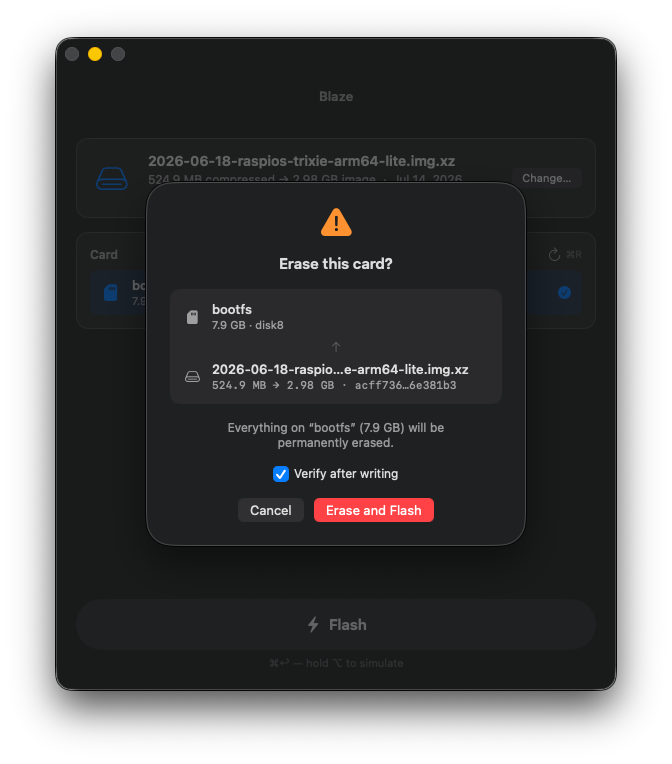
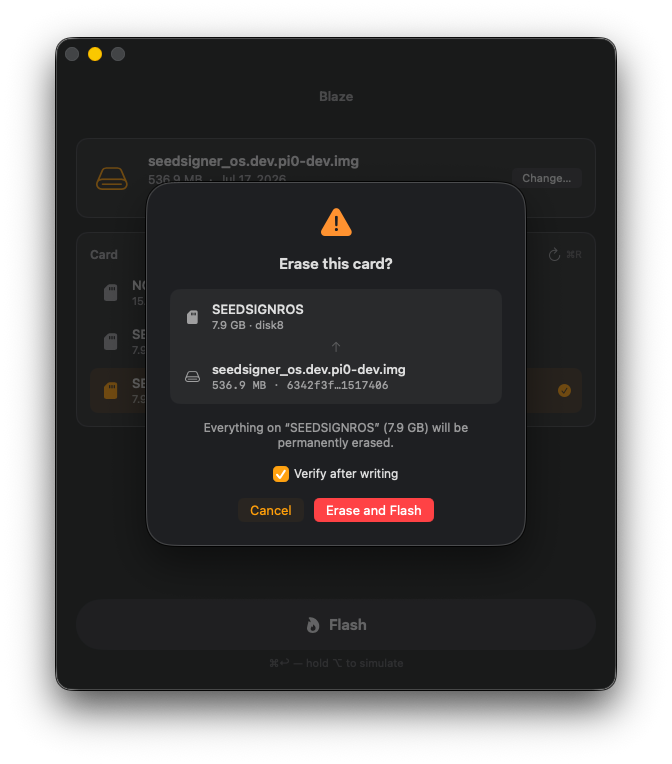
update screenshots, microsd internal macbook support, and a few other minor tweaks

diff --git a/blaze/Disk/DiskEnumerator.swift b/blaze/Disk/DiskEnumerator.swift
@@ -7,7 +7,11 @@ nonisolated enum DiskEnumerator {
     private static let log = Logger(subsystem: "dev.derivation48.blaze", category: "disks")
 
     static func enumerate() -> [Disk] {
-        guard let list = diskutilPlist(["list", "-plist", "external", "physical"]) else { return [] }
+        // All physical disks, not just external: the built-in SD slot on
+        // MacBook Air/Pro is on the internal bus, so its cards report
+        // Internal=true and never appear under "external". The Removable
+        // filter below excludes the boot NVMe and fixed external drives.
+        guard let list = diskutilPlist(["list", "-plist", "physical"]) else { return [] }
         let wholeDisks = list["WholeDisks"] as? [String] ?? []
 
         // Volume names come from the list plist, keyed by whole disk.
@@ -42,11 +46,12 @@ nonisolated enum DiskEnumerator {
                 isInternal: info["Internal"] as? Bool ?? false,
                 volumeNames: volumesByDisk[bsdName] ?? [],
                 mountPoints: mountsByDisk[bsdName] ?? [])
-            // Fixed external drives (NVMe/SSD/HDD enclosures) report
-            // Removable=false; SD/microSD readers and sticks report true.
+            // Fixed drives — the internal boot NVMe and external NVMe/SSD/HDD
+            // enclosures — report Removable=false. SD/microSD cards report
+            // true whether they sit in a USB reader or the built-in slot.
             // Only removable media belongs in a card picker.
             guard disk.removable else {
-                log.info("hiding non-removable external disk \(bsdName, privacy: .public) (\(disk.mediaName, privacy: .public))")
+                log.info("hiding non-removable disk \(bsdName, privacy: .public) (\(disk.mediaName, privacy: .public))")
                 continue
             }
             guard let score = SDHeuristic.score(disk) else {

diff --git a/blaze/Disk/MountGuard.swift b/blaze/Disk/MountGuard.swift
@@ -2,10 +2,10 @@ import Foundation
 import DiskArbitration
 
 /// While Blaze runs (and the preference is on), dissents every mount of
-/// removable physical media system-wide — cards and USB sticks stay
-/// unmounted, so macOS never touches them. Internal disks, external
-/// non-removable drives, and disk images are unaffected, and everything
-/// returns to normal the moment Blaze quits.
+/// removable physical media system-wide — cards (USB reader or built-in SD
+/// slot) and USB sticks stay unmounted, so macOS never touches them. The
+/// boot disk, external non-removable drives, and disk images are unaffected,
+/// and everything returns to normal the moment Blaze quits.
 ///
 /// @unchecked Sendable: `suspendCount` is lock-guarded and read from the DA
 /// callback queue; `session` is only touched from start/stop on the main
@@ -23,9 +23,12 @@ nonisolated final class MountGuard: @unchecked Sendable {
         let suspended = guardian.suspendCount > 0
         guardian.suspendLock.unlock()
         if suspended { return nil }
+        // Block any removable medium — USB reader/stick or a card in the
+        // built-in SD slot (which is internal-bus but removable). The boot
+        // disk and external SSD/HDD enclosures are non-removable so they
+        // never match; disk images are excluded explicitly.
         guard let desc = DADiskCopyDescription(disk) as? [String: Any],
               desc[kDADiskDescriptionMediaRemovableKey as String] as? Bool == true,
-              desc[kDADiskDescriptionDeviceInternalKey as String] as? Bool != true,
               (desc[kDADiskDescriptionDeviceProtocolKey as String] as? String) != "Virtual Interface",
               (desc[kDADiskDescriptionDeviceModelKey as String] as? String) != "Disk Image"
         else { return nil }

diff --git a/blaze/Views/Color+Blaze.swift b/blaze/Views/Color+Blaze.swift
@@ -1,0 +1,13 @@
+import SwiftUI
+
+extension Color {
+    /// Blaze brand amber (#FF9F0A). Defined as a literal rather than the
+    /// system accent so the app looks the same regardless of the user's
+    /// macOS accent-color choice.
+    static let blaze = Color(red: 1.0, green: 159.0 / 255.0, blue: 10.0 / 255.0)
+}
+
+extension ShapeStyle where Self == Color {
+    /// Leading-dot access in `.tint(.blaze)`, `.foregroundStyle(.blaze)`, etc.
+    static var blaze: Color { .blaze }
+}

diff --git a/BlazeHelper/Flasher.swift b/BlazeHelper/Flasher.swift
@@ -88,8 +88,15 @@ final class Flasher {
         guard desc[kDADiskDescriptionMediaWholeKey as String] as? Bool == true else {
             throw Self.error(.notWholeDisk, "\(bsdName) is not a whole disk.")
         }
-        if desc[kDADiskDescriptionDeviceInternalKey as String] as? Bool == true {
-            throw Self.error(.internalDisk, "\(bsdName) is an internal disk.")
+        // Reject only FIXED internal disks (the boot NVMe): Internal and
+        // non-removable. A card in the built-in SD slot is also Internal —
+        // the slot is on the internal bus — but is removable, so it must be
+        // allowed. The startup-disk check below is the authoritative guard
+        // and rejects whatever backs "/" regardless of these flags.
+        let isInternal = desc[kDADiskDescriptionDeviceInternalKey as String] as? Bool == true
+        let isRemovable = desc[kDADiskDescriptionMediaRemovableKey as String] as? Bool == true
+        if isInternal && !isRemovable {
+            throw Self.error(.internalDisk, "\(bsdName) is a fixed internal disk.")
         }
         if try bootDisks().contains(bsdName) {
             throw Self.error(.bootDisk, "\(bsdName) backs the startup volume.")

diff --git a/blaze/Disk/SDHeuristic.swift b/blaze/Disk/SDHeuristic.swift
@@ -9,12 +9,15 @@ nonisolated enum SDHeuristic {
     /// Word-bounded: "SD" must be a standalone token so model numbers that
     /// merely contain the letters (…P3PSSD8) don't score as card readers.
     static let namePattern = try! NSRegularExpression(
-        pattern: #"\b(SD|SDHC|SDXC)\b|Card *Reader|SanDisk|Transcend|Lexar"#,
+        pattern: #"\b(SD|SDHC|SDXC)\b|Card *Reader|Built.?In .*Reader|Apple .*Reader|SanDisk|Transcend|Lexar"#,
         options: [.caseInsensitive])
 
-    /// Returns nil for disks that must not be offered at all.
+    /// Returns nil for disks that must not be offered at all. A card in the
+    /// built-in SD slot reports Internal=true (the slot is on the internal
+    /// bus) but is genuinely removable — exclude only fixed internal disks
+    /// (the boot NVMe), which are Internal and non-removable.
     static func score(_ disk: Disk) -> Int? {
-        guard !disk.isInternal else { return nil }
+        guard !(disk.isInternal && !disk.removable) else { return nil }
 
         var score = 0
         if disk.removable { score += 50 }

diff --git a/blaze/Views/ImageDropCard.swift b/blaze/Views/ImageDropCard.swift
@@ -23,7 +23,7 @@ struct ImageDropCard: View {
         )
         .overlay(
             RoundedRectangle(cornerRadius: 12)
-                .strokeBorder(dropTargeted ? Color.accentColor : Color.secondary.opacity(0.25),
+                .strokeBorder(dropTargeted ? Color.blaze : Color.secondary.opacity(0.25),
                               style: StrokeStyle(lineWidth: dropTargeted ? 2 : 1,
                                                  dash: model.imageURL == nil ? [6, 4] : []))
         )
@@ -34,7 +34,7 @@ struct ImageDropCard: View {
         VStack(spacing: 10) {
             Image(systemName: "arrow.down.document")
                 .font(.system(size: 34, weight: .light))
-                .foregroundStyle(dropTargeted ? Color.accentColor : .secondary)
+                .foregroundStyle(dropTargeted ? Color.blaze : .secondary)
             Text("Drop an .img here, or ⌘O")
                 .font(.system(size: 14))
                 .foregroundStyle(.secondary)
@@ -49,7 +49,7 @@ struct ImageDropCard: View {
         HStack(spacing: 14) {
             Image(systemName: "opticaldiscdrive")
                 .font(.system(size: 28, weight: .light))
-                .foregroundStyle(Color.accentColor)
+                .foregroundStyle(Color.blaze)
                 .frame(width: 44)
 
             VStack(alignment: .leading, spacing: 3) {
@@ -110,7 +110,7 @@ struct ImageDropCard: View {
                 } label: {
                     Text(copiedHash ? "Copied" : compact)
                         .font(.system(size: 11, design: .monospaced))
-                        .foregroundStyle(copiedHash ? Color.accentColor : .secondary)
+                        .foregroundStyle(copiedHash ? Color.blaze : .secondary)
                         .contentTransition(.opacity)
                 }
                 .buttonStyle(.plain)

diff --git a/blaze/Views/OnboardingSheet.swift b/blaze/Views/OnboardingSheet.swift
@@ -24,7 +24,7 @@ struct OnboardingSheet: View {
             HStack(spacing: 5) {
                 ForEach(0..<3, id: \.self) { i in
                     Circle()
-                        .fill(i == page ? Color.accentColor : Color.secondary.opacity(0.3))
+                        .fill(i == page ? Color.blaze : Color.secondary.opacity(0.3))
                         .frame(width: 6, height: 6)
                 }
             }
@@ -39,7 +39,7 @@ struct OnboardingSheet: View {
             Spacer()
             Image(systemName: "lock.shield")
                 .font(.system(size: 40, weight: .light))
-                .foregroundStyle(Color.accentColor)
+                .foregroundStyle(Color.blaze)
             Text("One-time setup")
                 .font(.title2.weight(.semibold))
             Text("Writing an SD card needs administrator access. Blaze installs a small helper once — you'll see a single password prompt, and never again. No prompts per flash, no prompts after reboot.")
@@ -92,7 +92,7 @@ struct OnboardingSheet: View {
             Spacer()
             Image(systemName: model.hasFullDiskAccess ? "checkmark.shield.fill" : "externaldrive.badge.exclamationmark")
                 .font(.system(size: 40, weight: .light))
-                .foregroundStyle(model.hasFullDiskAccess ? Color.green : Color.accentColor)
+                .foregroundStyle(model.hasFullDiskAccess ? Color.green : Color.blaze)
             Text("Full Disk Access")
                 .font(.title2.weight(.semibold))
 
@@ -129,7 +129,7 @@ struct OnboardingSheet: View {
             Spacer()
             Image(systemName: "keyboard")
                 .font(.system(size: 40, weight: .light))
-                .foregroundStyle(Color.accentColor)
+                .foregroundStyle(Color.blaze)
             Text("Two keys to remember")
                 .font(.title2.weight(.semibold))
 

diff --git a/blaze/Views/DiskPickerCard.swift b/blaze/Views/DiskPickerCard.swift
@@ -80,7 +80,7 @@ struct DiskPickerCard: View {
             HStack(spacing: 10) {
                 Image(systemName: disk.score > 0 ? "sdcard.fill" : "externaldrive")
                     .font(.system(size: 16))
-                    .foregroundStyle(selected ? Color.accentColor : .secondary)
+                    .foregroundStyle(selected ? Color.blaze : .secondary)
                     .frame(width: 22)
                 VStack(alignment: .leading, spacing: 1) {
                     Text(disk.displayName)
@@ -93,7 +93,7 @@ struct DiskPickerCard: View {
                 Spacer()
                 if selected {
                     Image(systemName: "checkmark.circle.fill")
-                        .foregroundStyle(Color.accentColor)
+                        .foregroundStyle(Color.blaze)
                 }
             }
             .padding(.horizontal, 10)
@@ -101,7 +101,7 @@ struct DiskPickerCard: View {
             .contentShape(Rectangle())
             .background(
                 RoundedRectangle(cornerRadius: 8)
-                    .fill(selected ? Color.accentColor.opacity(0.12) : .clear)
+                    .fill(selected ? Color.blaze.opacity(0.12) : .clear)
             )
         }
         .buttonStyle(.plain)

diff --git a/blaze/Views/FlashButton.swift b/blaze/Views/FlashButton.swift
@@ -14,7 +14,7 @@ struct FlashButton: View {
                 model.requestFlash(simulate: simulate)
             } label: {
                 HStack(spacing: 8) {
-                    Image(systemName: simulate ? "wand.and.sparkles" : "bolt.fill")
+                    Image(systemName: simulate ? "wand.and.sparkles" : "flame.fill")
                     Text(simulate ? "Simulate (no write)" : "Flash")
                         .fontWeight(.semibold)
                 }
@@ -23,7 +23,7 @@ struct FlashButton: View {
                 .padding(.vertical, 10)
             }
             .buttonStyle(.borderedProminent)
-            .tint(simulate ? .indigo : .accentColor)
+            .tint(simulate ? .indigo : .blaze)
             .controlSize(.large)
             .keyboardShortcut(.return, modifiers: .command)
             .disabled(!model.canFlash)

diff --git a/blaze/Views/FullDiskAccessSheet.swift b/blaze/Views/FullDiskAccessSheet.swift
@@ -10,7 +10,7 @@ struct FullDiskAccessSheet: View {
         VStack(spacing: 16) {
             Image(systemName: "lock.shield")
                 .font(.system(size: 32))
-                .foregroundStyle(Color.accentColor)
+                .foregroundStyle(Color.blaze)
 
             Text("Full Disk Access needed")
                 .font(.title3.weight(.semibold))
@@ -51,7 +51,7 @@ struct FullDiskAccessSheet: View {
                 .font(.system(size: 11, weight: .bold))
                 .foregroundStyle(.white)
                 .frame(width: 18, height: 18)
-                .background(Circle().fill(Color.accentColor))
+                .background(Circle().fill(Color.blaze))
             Text(text)
                 .font(.system(size: 12))
         }

diff --git a/Shared/BlazeHelperProtocol.swift b/Shared/BlazeHelperProtocol.swift
@@ -3,7 +3,7 @@ import Foundation
 /// Bump whenever the XPC contract or flash pipeline changes. The app compares
 /// this against the installed helper's reported version on connect and
 /// re-registers the daemon on mismatch.
-public let blazeHelperVersion = "1.1.1"
+public let blazeHelperVersion = "1.2.0"
 
 public let blazeHelperMachServiceName = "dev.derivation48.blaze.helper"
 

diff --git a/blaze/blazeApp.swift b/blaze/blazeApp.swift
@@ -8,6 +8,7 @@ struct BlazeApp: App {
         WindowGroup {
             ContentView()
                 .environment(model)
+                .tint(.blaze)
                 .onAppear { model.start() }
         }
         .windowStyle(.hiddenTitleBar)
@@ -25,6 +26,7 @@ struct BlazeApp: App {
         Settings {
             SettingsView()
                 .environment(model)
+                .tint(.blaze)
         }
     }
 }